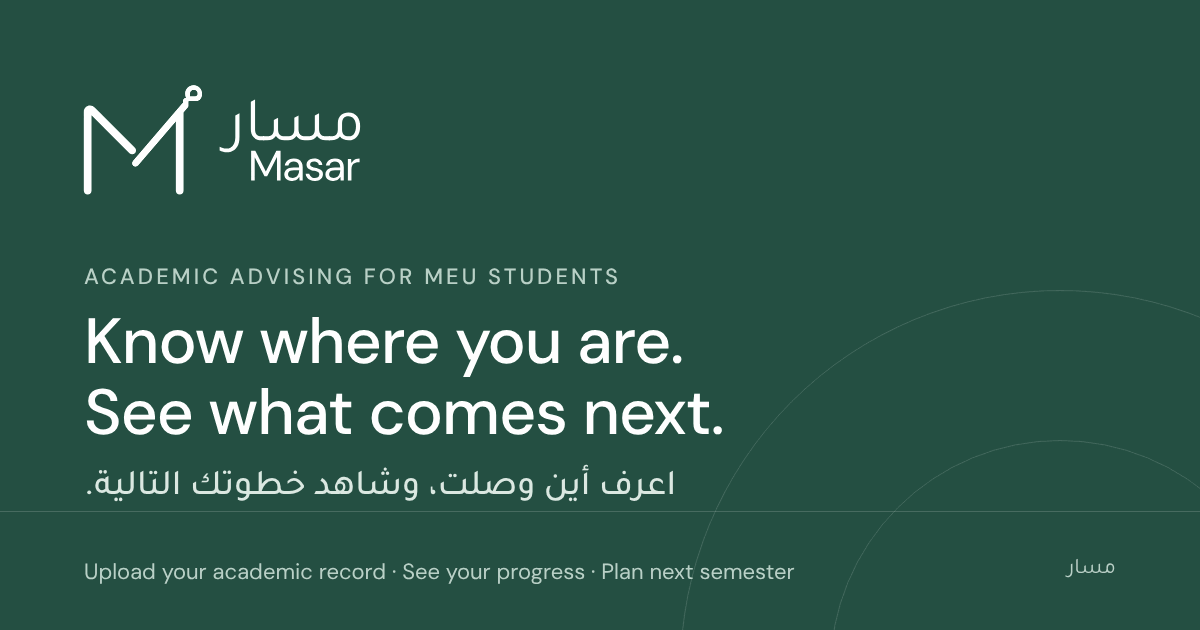
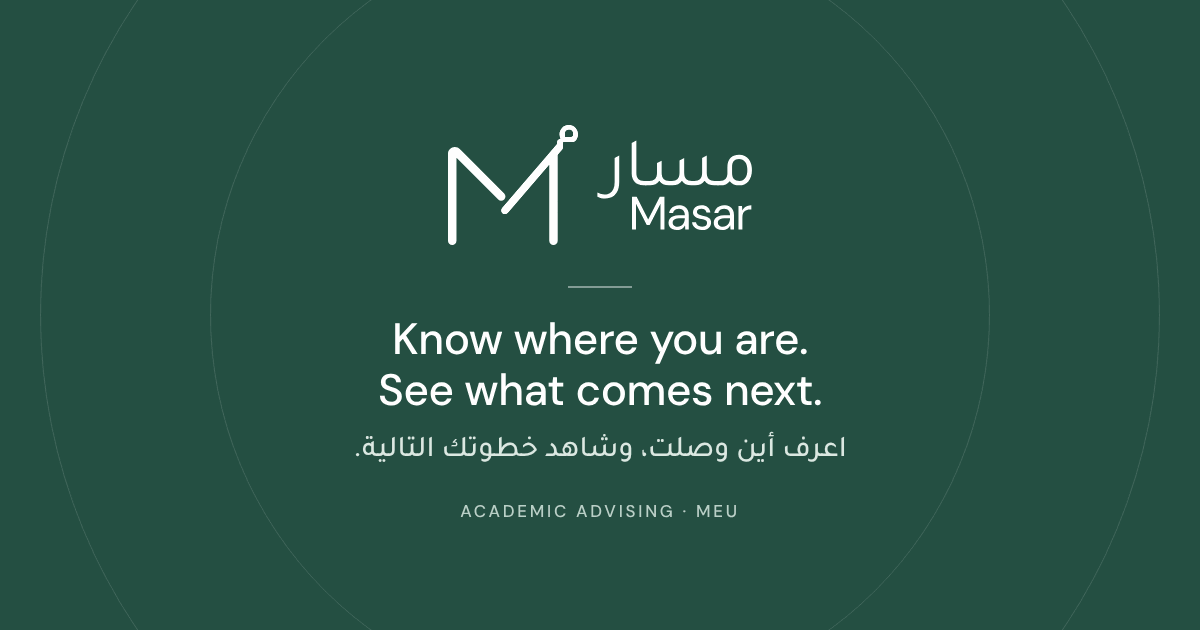
Share image: keep the content in the centre
WhatsApp crops the link preview image to a centred square, which cut
the logo and headline off. The logo and tagline are now centred, so
the preview reads correctly both cropped and at full width. The image
address carries a version so chat apps fetch the new file.

Claude-Session: https://claude.ai/code/session_01L15B5LHasS9nXGbs8tXavf

diff --git a/includes/share-meta.php b/includes/share-meta.php
@@ -9,6 +9,10 @@
  *
  * The image address must be absolute and reachable from the internet;
  * set APP_URL in .env when Masar runs behind a proxy.
+ *
+ * Chat apps often crop the image to a centred square, so its content
+ * sits in the middle. They also cache it by address: raise the ?v=
+ * number below whenever the image file is replaced.
  */
 
 $shareBaseUrl = appBaseUrl();
@@ -23,7 +27,7 @@ $shareEscape = static fn (string $value): string => htmlspecialchars($value, ENT
     <meta property="og:title" content="<?= $shareEscape($shareTitle) ?>">
     <meta property="og:description" content="<?= $shareEscape($shareDescription) ?>">
     <meta property="og:url" content="<?= $shareEscape($shareBaseUrl . '/') ?>">
-    <meta property="og:image" content="<?= $shareEscape($shareBaseUrl . '/assets/brand/masar-share.png') ?>">
+    <meta property="og:image" content="<?= $shareEscape($shareBaseUrl . '/assets/brand/masar-share.png?v=2') ?>">
     <meta property="og:image:type" content="image/png">
     <meta property="og:image:width" content="1200">
     <meta property="og:image:height" content="630">
